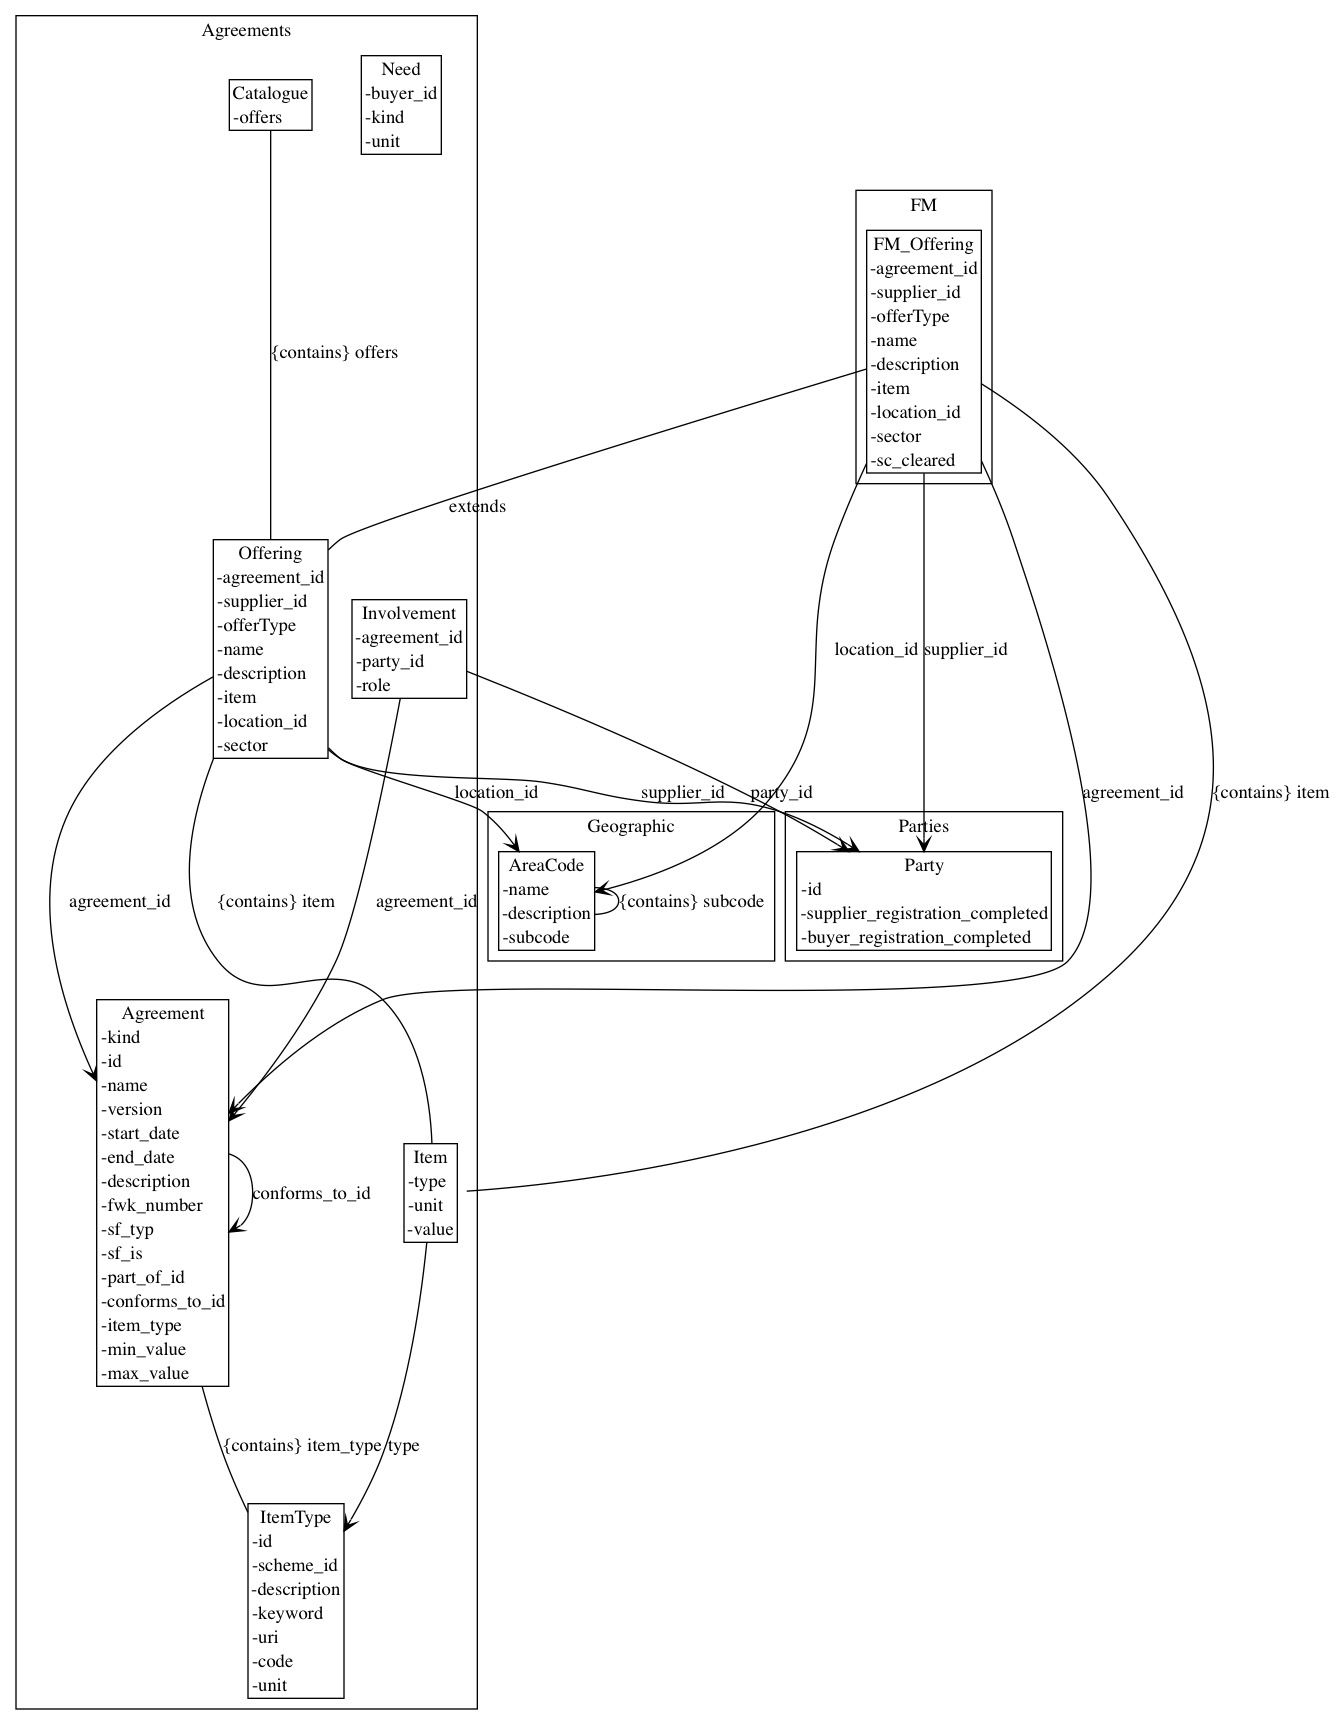
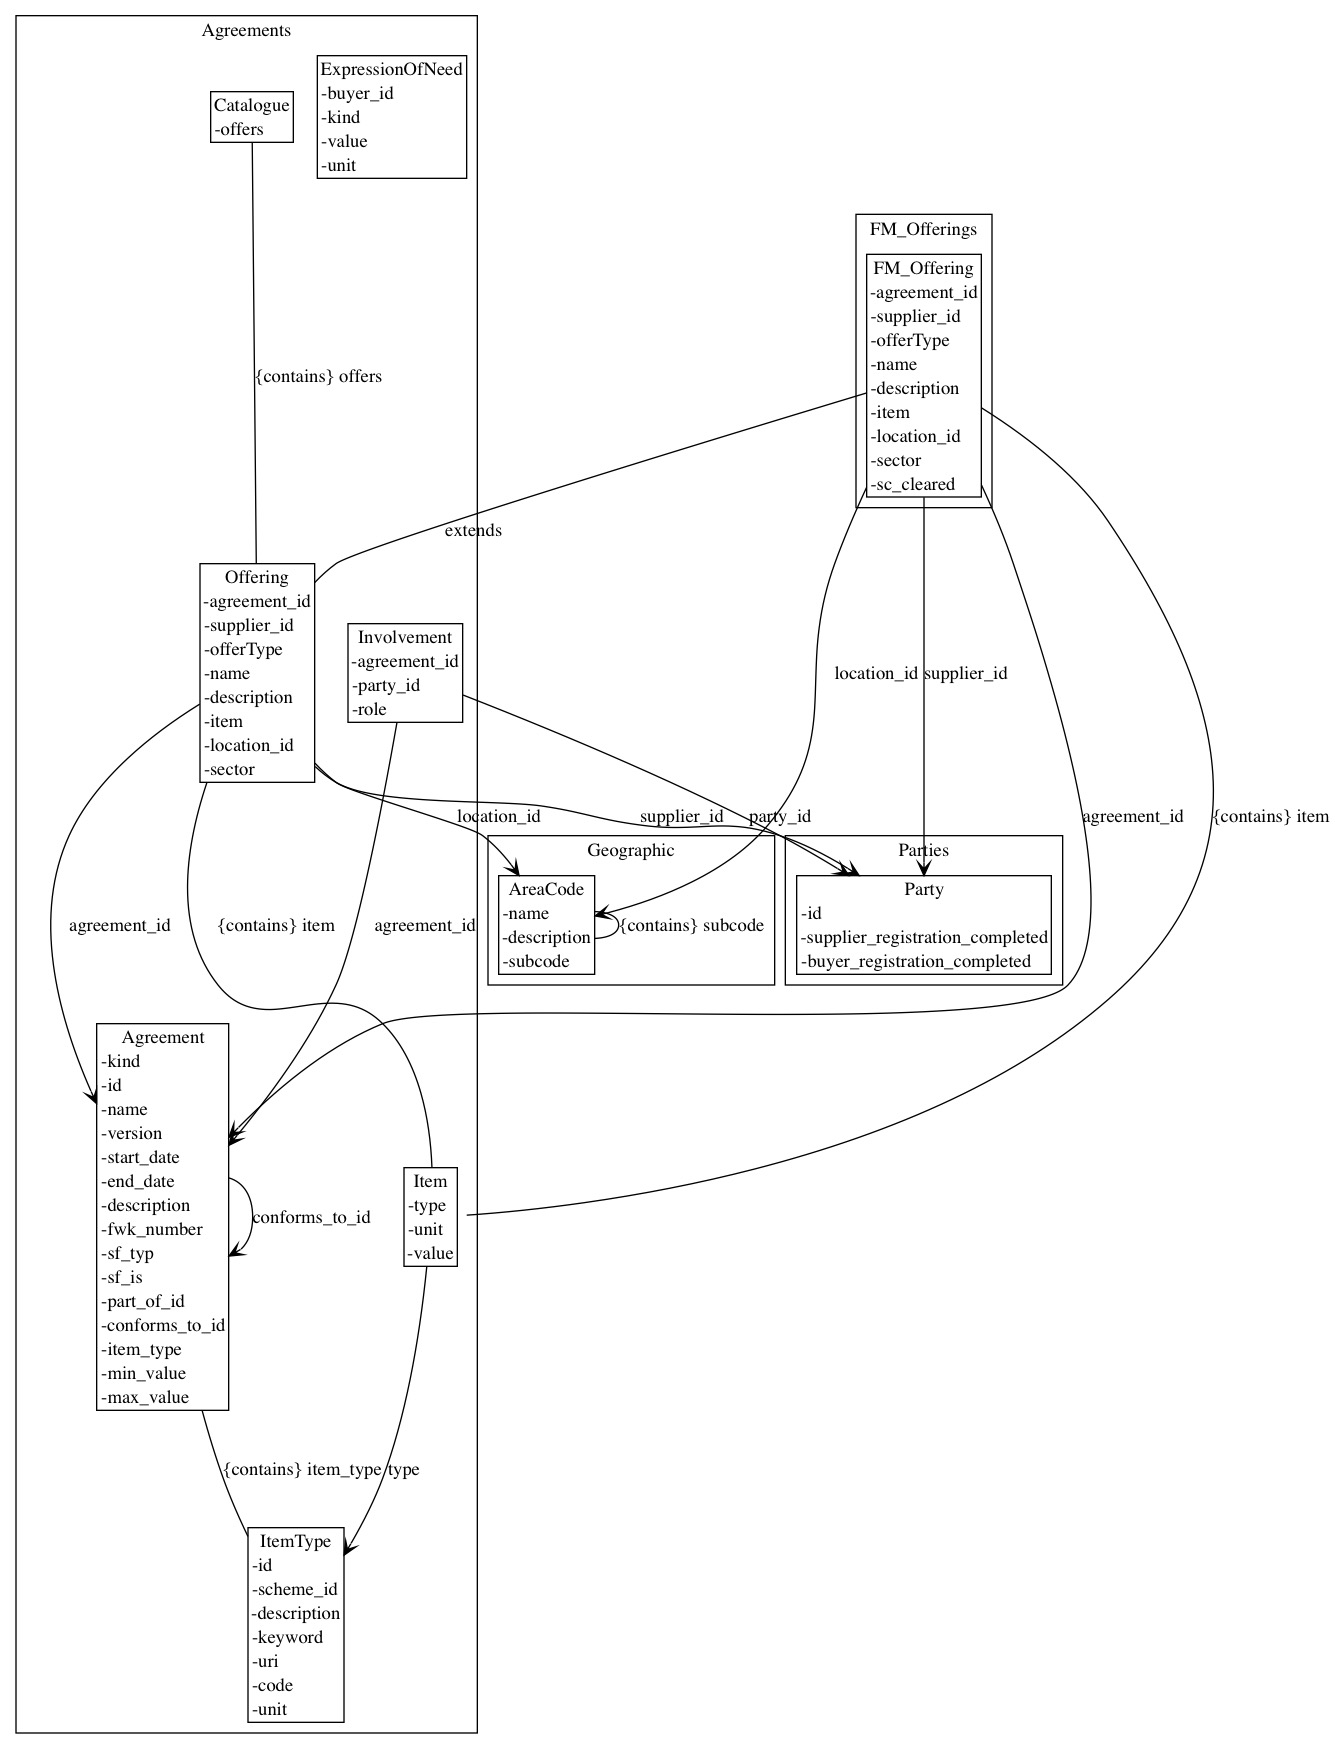
Start working on Supply Teachers model

diff --git a/agreement-design/src/transform.rb b/agreement-design/src/transform.rb
@@ -77,7 +77,7 @@ module Transform
         t = 0
         # there will be more than one of each type
         for type in model.contents[typename]
-          transform_type(lambdas, decl: type, name: typename, depth: 0, index: 0, total: 1)
+          transform_entry(lambdas, decl: type, name: typename, depth: 0, index: 0, total: 1)
           t = t + 1
         end
         grp = cond_call(lambdas, :after_group, *after_group_lambda(name: typename, before: grp))
@@ -90,7 +90,7 @@ module Transform
     for model in models
       dom = cond_call(lambdas, :before_model, *before_model_lambda(model: model))
       for type in model.types.values
-        before = cond_call(lambdas, :before_type, *before_type_lambda(type: type, index:0, total:1))
+        before = cond_call(lambdas, :before_type, *before_type_lambda(type: type, index: 0, total: 1))
         i = 0
         for ak in type.attributes.keys
           av = type.attributes[ak]
@@ -116,13 +116,13 @@ module Transform
     return 0
   end
 
-  def transform_type(lambdas, index:, name:, decl:, depth:, total:)
+  def transform_entry(lambdas, index:, name:, decl:, depth:, total:)
 
     if decl.class <= Array
       arrctx = cond_call(lambdas, :before_array, *before_array_lambda(name: name, decl: decl, depth: depth, total: decl.length))
       j = 0
       for aa in decl
-        transform_type(lambdas, index: j, decl: aa, name: name, depth: depth, total: decl.length)
+        transform_entry(lambdas, index: j, decl: aa, name: name, depth: depth, total: decl.length)
         j = j + 1
       end
       cond_call(lambdas, :after_array, *after_array_lambda(index: index, decl: decl, depth: depth, before: arrctx))
@@ -131,7 +131,7 @@ module Transform
       i = 0
       for ak in decl.attributes.keys
         av = decl.attributes[ak]
-        transform_type(lambdas, name: ak, decl: av, depth: depth + 1, index: i, total: decl.attributes.keys.length)
+        transform_entry(lambdas, name: ak, decl: av, depth: depth + 1, index: i, total: decl.attributes.keys.length)
         i = i + 1
       end
       cond_call(lambdas, :after_type, *after_type_lambda(type: decl, depth: depth, before: before))

diff --git a/agreement-design/model/agreement.rb b/agreement-design/model/agreement.rb
@@ -26,7 +26,7 @@ variable facts in their Offer to supplement the description of how they support 
     attribute :unit, UNITS, " define the units, if one units matches "
   }
 
-  CATEGORY_OF_NEED = Selection(:Budget, :Location, :Service)
+  TYPES_OF_EXPRESSION_OF_NEED = Selection(:Budget, :Location, :Service)
   code(:Budget, description:
 "What is the budget the buyer has for their need?
 Match the budget to the value range of the agreement, and the value range of supplier offers.
@@ -38,14 +38,14 @@ Match location needs to locations of offers")
 "What sort of things do they need?
 Match the service to item types, their keywords, and offering titles.")
 
-  datatype(:Need,
+  datatype(:ExpressionOfNeed,
            description:
 " Defines a buyer's need which can be matched to agreement items and other details
 The need matches closely to our definitions of agreements under 'items types' and their classification
 schemes, but is not a one-to-one match.") {
     attribute :buyer_id, String, "The buyer expressing the need"
-    attribute :kind, Selection(:Budget, :Location,)
     attribute :kind, Selection(:Budget, :Location, :Service)
+    attribute :value, String
     attribute :unit, UNITS, "The units typically used to express the need"
   }
 

diff --git a/agreement-design/model/fm.rb b/agreement-design/model/fm.rb
@@ -1,6 +1,6 @@
 require_relative 'agreement'
 
-domain(:FM) {
+domain(:FM_Offerings) {
   datatype(:FM_Offering, extends: Agreements::Offering,
            description: " An offer for FM elements ") {
     attribute :sc_cleared, String
@@ -20,6 +20,17 @@ Agreements.new :FM_Agreements do
   }
 
   ENV_CLEANING = "#{FM_ID}.1a-C.3"
+
+  cleaning = itemtype {
+    id ENV_CLEANING
+    scheme_id :CCS
+    unit :Currency
+    code "CCS-building-area-method"
+    keyword "cleaning"
+    keyword "washing"
+    keyword "janitor"
+  }
+
   agreement {
     kind :Lot
     id "FM lot 1"
@@ -28,20 +39,12 @@ Agreements.new :FM_Agreements do
     min_value 0
     max_value 70000000
     version "0.1.0"
-    item_type {
-      id ENV_CLEANING
-      scheme_id :CCS
-      unit :Currency
-      code "CCS-building-area-method"
-      keyword "cleaning"
-      keyword "washing"
-      keyword "janitor"
-    }
+    cnew = item_type cleaning
   }
 
 end
 
-FM.new(:FM_Catalogue) {
+FM_Offerings.new(:FM_Catalogue) {
   fm_offering {
     supplier_id "XYZ corp"
     name "XYZ's nifty school cleaning service"

diff --git a/agreement-design/src/data.rb b/agreement-design/src/data.rb
@@ -28,7 +28,7 @@ class DataFile < Output
               else
                 n = Array.new
                 map[name] = n
-                stack.push(n) # add a new container to the stack to use next
+                stack.push(map[name]) # add a new container to the stack to use next
               end
             end,
             :before_type => lambda do |type:, depth:, index:, total:|
@@ -44,7 +44,11 @@ class DataFile < Output
             :before_array => lambda do |name:, decl:, depth:, total:|
               last = stack.last
               n = Array.new
-              last[name] = n
+              if last.class <= Array
+                last<< n
+              else
+                last[name] = n
+              end
               stack.push(n) # add a new container to the stack to use next
             end,
             :attribute => lambda do |id:, val:, depth:, type:, index:, total:|

diff --git a/agreement-design/model/supply_teachers.rb b/agreement-design/model/supply_teachers.rb
@@ -12,7 +12,7 @@ domain(:SupplyTeacherOfferings) {
   }
 }
 
-Agreements.new( :ST_Agrements) {
+Agreements.new( :ST_Agreements) {
   agreement {
     kind :Framework
     id SUPPLY_TEACHER_FRAMEWORK_ID
@@ -21,7 +21,6 @@ Agreements.new( :ST_Agrements) {
     description "This agreement is for the provision of Supply Teachers"
     start_date date(2018, 10, 01) #TODO proper start date for Supply teachers
   }
-
 
   agreement {
     kind :Lot
@@ -49,6 +48,11 @@ Agreements.new( :ST_Agrements) {
       keyword "Special Education Needs"
       keyword "Special Needs"
     }
+  }
+
+  agreement {
+    kind :Lot
+    id SUPPLY_TEACHER_MANAGED_SERVICE_LOT_ID
   }
 #   Qualified Teacher: Non-SEN Roles
 #   Qualified Teacher: SEN Roles

diff --git a/agreement-design/src/data_model.rb b/agreement-design/src/data_model.rb
@@ -87,15 +87,15 @@ module DataModel
           if block
             value = valueof(k, *args, &block)
           else
-            value = args
+            value = args[0]
           end
           if self.class.attributes[k][:multiplicity].end != 1
             @attributes[k] = [] unless @attributes[k]
             @attributes[k] << value
           else
-            @attributes[k] = valueof(k, *args, &block)
-            return @attributes[k]
+            @attributes[k] = value
           end
+          return value
         end
         self.define_singleton_method("#{k}=".to_sym) do |val|
           @attributes[k] = val

diff --git a/agreement-design/model/party.rb b/agreement-design/model/party.rb
@@ -16,4 +16,10 @@ Details still to be added") {
     # Buyer registration
     attribute :buyer_registration_completed, Date
   }
+=begin
+
+=end
+
+  # TODO add contact links
+  # TODO add address
 }

diff --git a/agreement-design/gen/doc/data.md b/agreement-design/gen/doc/data.md
@@ -13,7 +13,7 @@
    - min_value 0
    - max_value 70000000
    - version 0.1.0
-#### item_type FM.1a-C.3 
+#### itemtype FM.1a-C.3 
      - id FM.1a-C.3
      - scheme_id CCS
      - unit Currency
@@ -21,16 +21,47 @@
      - keyword cleaning
      - keyword washing
      - keyword janitor
-### XYZ's nifty school cleaning service  
-   - supplier_id XYZ corp
-   - name XYZ's nifty school cleaning service
-   - agreement_id FM
-   - location_id UK
-   - sector Education
-   - sc_cleared TRUE
-#### item  
-     - type FM.1a-C.3
-     - value 3000
+### itemtype FM.1a-C.3 
+   - id FM.1a-C.3
+   - scheme_id CCS
+   - unit Currency
+   - code CCS-building-area-method
+   - keyword cleaning
+   - keyword washing
+   - keyword janitor
+###  ST 
+   - kind Framework
+   - id ST
+   - fwk_number RM1234
+   - version 0.1.0
+   - description This agreement is for the provision of Supply Teachers
+   - start_date 2018-10-01
+### Hire supply teacher roles from an agency ST.AG 
+   - kind Lot
+   - id ST.AG
+   - name Hire supply teacher roles from an agency
+   - part_of_id ST
+   - version 0.1.0
+#### item_type QT_NonSEN 
+     - id QT_NonSEN
+     - scheme_id CCS
+     - description Qualified Teacher: Non-SEN Roles
+     - unit Currency
+     - code CCS-ST.AG-QT_NonSEN
+     - keyword teacher
+     - keyword non-sen
+#### item_type QT_SEN 
+     - id QT_SEN
+     - scheme_id CCS
+     - code CCS-ST.AG-QT_SEN
+     - unit Currency
+     - keyword teacher
+     - keyword sen teacher
+     - keyword Special Education Needs
+     - keyword Special Needs
+###  ST.MS 
+   - kind Lot
+   - id ST.MS
 ### UK  
    - name UK
 #### UKC  

diff --git a/agreement-design/gen/doc/metamodel.md b/agreement-design/gen/doc/metamodel.md
@@ -14,7 +14,7 @@ variable facts in their Offer to supplement the description of how they support 
 |uri|String|1| URI for the code within the scheme defining this type |
 |code|String|1| Code within the scheme defining this type |
 |unit|(Area,Currency)|1| define the units, if one units matches |
-## Need
+## ExpressionOfNeed
    Defines a buyer's need which can be matched to agreement items and other details
 The need matches closely to our definitions of agreements under 'items types' and their classification
 schemes, but is not a one-to-one match.
@@ -23,6 +23,7 @@ schemes, but is not a one-to-one match.
 |---------|----|------------|-----------|
 |buyer_id|String|1|The buyer expressing the need|
 |kind|(Budget,Location,Service)|1||
+|value|String|1||
 |unit|(Area,Currency)|1|The units typically used to express the need|
 ## Agreement
   General definition of Commercial Agreements
@@ -123,7 +124,7 @@ Details still to be added
 |name|String|1||
 |description|String|1||
 |subcode|Geographic::AreaCode|*|UUID or Salesforce ID?|
-# Data model: FM
+# Data model: FM_Offerings
 ## FM_Offering extends Agreements::Offering
    An offer for FM elements 
 

diff --git a/agreement-design/README.md b/agreement-design/README.md
@@ -29,4 +29,17 @@ the build script generates [outputs](gen) including
 - documentation for the agreements and metamodel
 
 
+# To do
+
+- [ ] add reference data for Teachers
+    - define model for framework
+    - define reference model for offers (and elucidate the model for suppliers, contacts)
+    - load mapping from spreadsheet and generate data file
+    - load into search
+    - map some searches
+    - understand school reference data lookup to find school code and location
+    - understand crow-fly filter
+    - refine expressions of need to support the requirements
+- [ ] add reference data for Facilities Management
+
 
